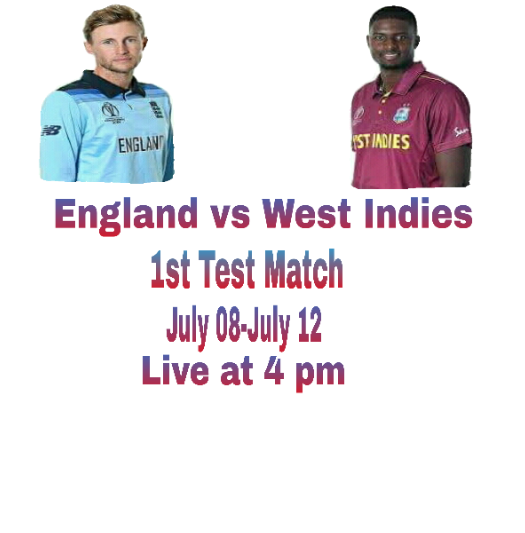
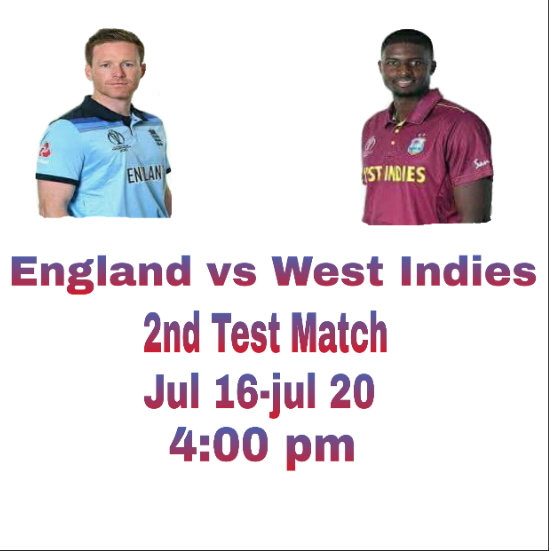
update index

Changed region(s): [[0.0, 0.0, 1.0, 0.8405], [0.0, 0.9906, 1.0, 1.0], [0.5181, 0.7805, 0.6705, 0.8705]]

diff --git a/index.html b/index.html
@@ -25,7 +25,7 @@ https://web.facebook.com/Cricket-Fans-BD-106370494241905/
 <font color="black">West Indies tour of England</font></br><font color="orange">Jul 08-Jul 12</font>
 <br>
 
-<b>1st test</br>The rose bowl,Southampton</br>4:00 pm</b></br>
+<b>1st test</br>Wi won by 4 wkts</br>Eng 204,313</br>318,200/6(64.2)</b></br>
 
 
 <a href="https://www.cricbuzz.com/cricket-series/2886/west-indies-tour-of-england-2020/matches"><b><font color="red">Click to see match preview</font></b>
@@ -170,7 +170,7 @@ img {vertical-align: middle;}
 <div class="mySlides fade">
   <div class="numbertext">1 / 4</div>
   <img src="picsart.png" style="width:100%">
-  <div class="text"><font size="5"color="black">Click arrow for next or prev</font></div>
+  <div class="text"><font size="3"color="black">Click arrow for next or prev</font></div>
 </div>
 
 <div class="mySlides fade">
@@ -188,7 +188,7 @@ img {vertical-align: middle;}
 <div class="mySlides fade">
   <div class="numbertext">4 / 4</div>
   <img src="picsart4.png" style="width:100%">
-  <div class="text"><font size="5"color="black">Click arrow for next or prev</font></div>
+  <div class="text"><font size="1"color="black">Click arrow for next or prev</font></div>
 </div>
 
 <a class="prev" onclick="plusSlides(-1)">&#10094;</a>
@@ -252,13 +252,13 @@ function showSlides(n) {
 <td><font size="5"color="white">Corona Update</font></td></tr>
 
 <tr bgcolor="red">
-<td><font size="5"color="white">Injured:12,725,605</font></td></tr>
+<td><font size="5"color="white">Injured:12,935,605</font></td></tr>
 
 <tr bgcolor="red">
-<td><font size="5"color="white">Deaths:564,719</font></marquee></td></tr>
+<td><font size="5"color="white">Deaths:569,208</font></marquee></td></tr>
 
 <tr bgcolor="red">
-<td><font size="5"color="white">Recovered:7,420,533 </font></td></tr>
+<td><font size="5"color="white">Recovered:7,535,262 </font></td></tr>
 </table></br>
 
 
@@ -300,7 +300,7 @@ function showSlides(n) {
 <th>Jul 08-Jul 28</th>
 <th><p id="demo"</p><script font size="10">
 // Set the date we're counting down to
-var countDownDate = new Date("July 08, 2020 16:00:00").getTime();
+var countDownDate = new Date("July 16, 2020 16:00:00").getTime();
 
 // Update the count down every 1 second
 var x = setInterval(function() {
@@ -395,13 +395,13 @@ var x = setInterval(function() {
 
 <p align="center"><a href="
 https://news-portal360.github.io
-"><img src="test.png"width="300"height="300"></br><font size="5"color="white"><b>
-টেস্টের টপ অর্ডার ব্যাটিংয়ে ১২ দলের মধ্যে ৯ নম্বরে বাংলাদেশ।.... বিস্তারিত জানতে লিংকে প্রবেশ করুন…</b></font></a></p></br>
+"><img src="ami.png"width="300"height="300"></br><font size="5"color="white"><b>
+অমিতাভ-অভিষেকের পাশে টেন্ডুলকাররা.... বিস্তারিত জানতে লিংকে প্রবেশ করুন…</b></font></a></p></br>
 
 <p align="center"><a href="https://news-portal360.github.io">
-<img src="sourav.png"width="300"height="300"></br>
+<img src="gab.png"width="300"height="300"></br>
 <font size="5"color="white"><b>
-‘গাঙ্গুলীর সামনে আমার কোনো সুযোগই থাকবে না ..বিস্তারিত লিংকে....</b></font></a></p></br>
+ওয়াসিম-মুরালিদের স্মৃতি ফেরালেন গ্যাব্রিয়েল ..বিস্তারিত লিংকে....</b></font></a></p></br>
 
 
 
